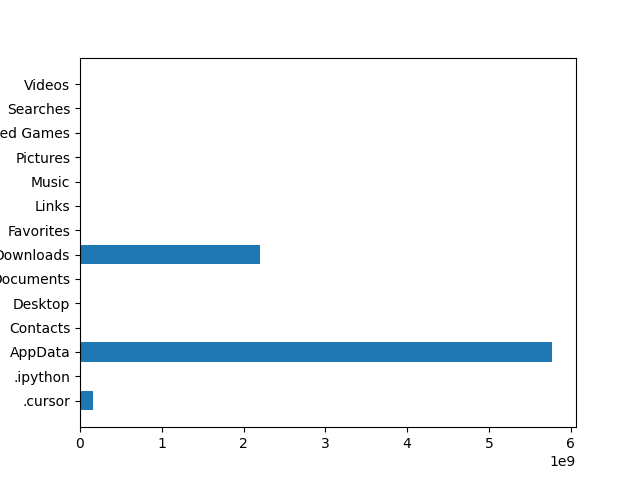
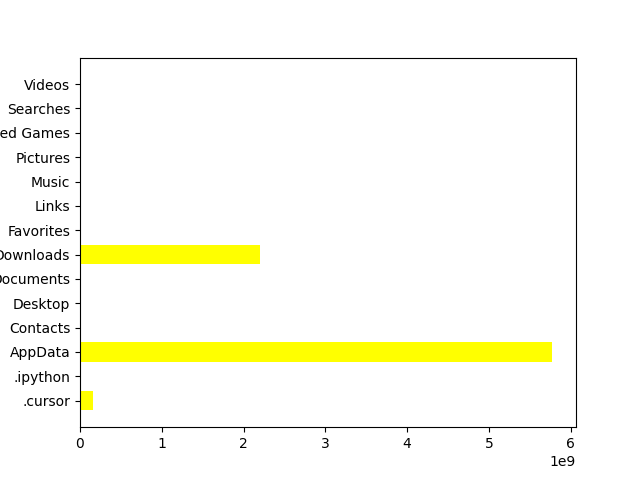
color 변경경

Changed region(s): [[0.125, 0.6875, 0.875, 0.7812], [0.125, 0.5, 0.4062, 0.5625], [0.125, 0.8125, 0.1562, 0.875]]

diff --git a/step_3_2.py b/step_3_2.py
@@ -3,8 +3,8 @@ import matplotlib.pyplot as plt
 from step_2_1 import OUT_DIR
 from step_3_1 import load_plot_data
 
-
 plot_data = load_plot_data()
 fig, ax = plt.subplots()
-ax.barh(plot_data["stem"], plot_data["size"])
+ax.barh(plot_data["stem"], plot_data["size"],
+ color=['yellow'])
 fig.savefig(OUT_DIR / f"{Path(__file__).stem}.png")
